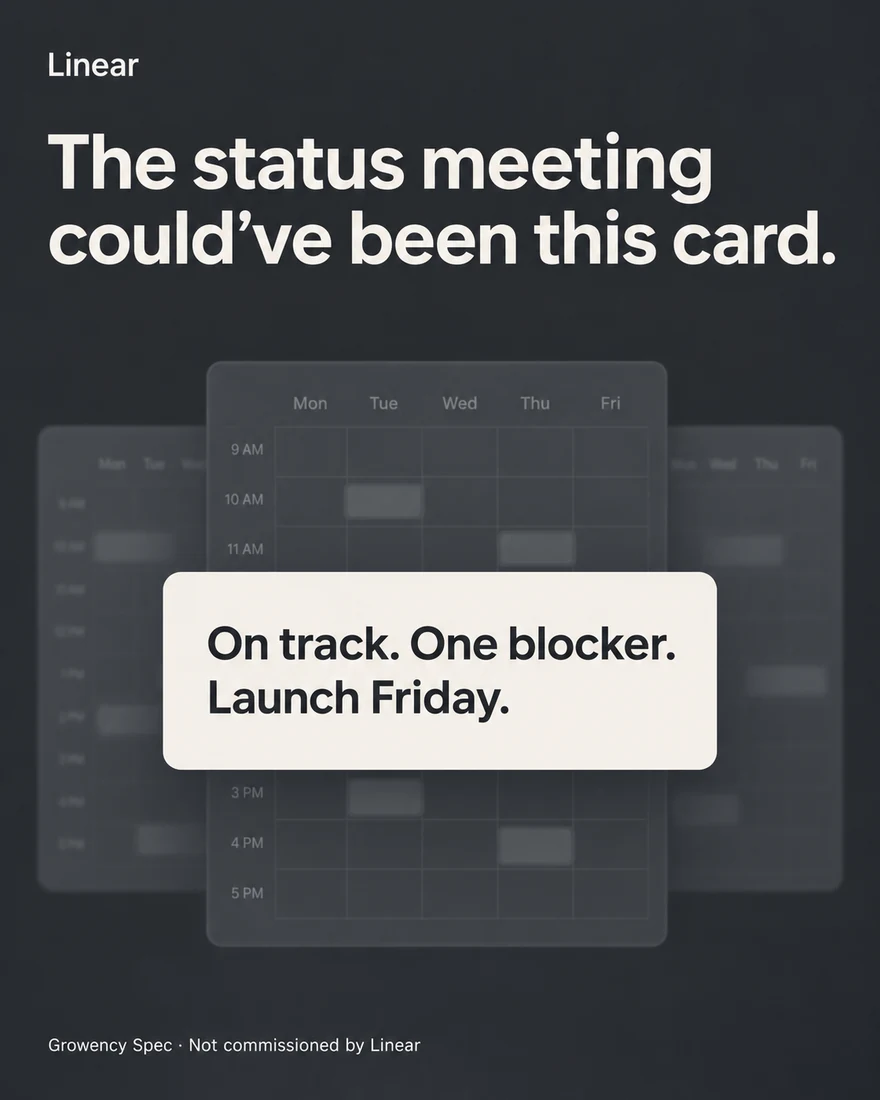
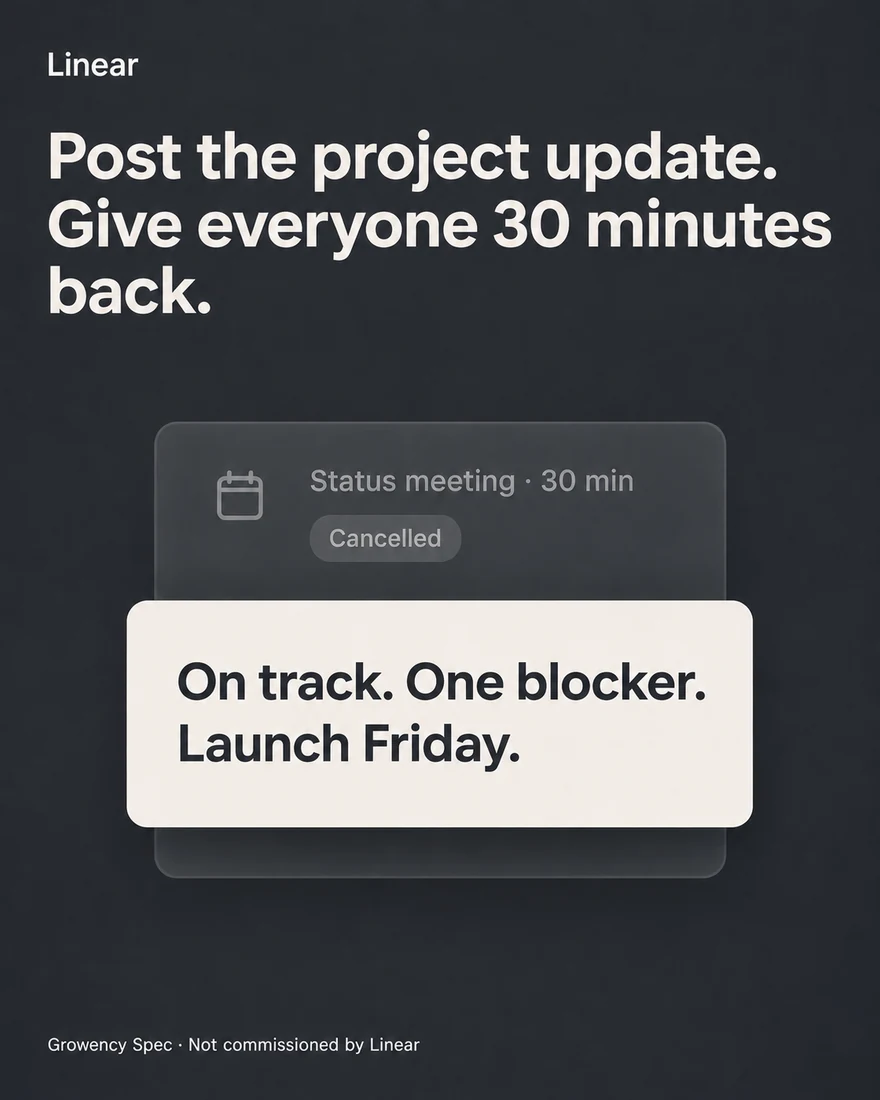
Use selected headlines and varied type in spec ads

diff --git a/index.html b/index.html
@@ -91,7 +91,7 @@
         <ul class="ad-gallery-track" tabindex="0" aria-label="Scroll horizontally to browse the sample ads" data-lenis-prevent-wheel data-lenis-prevent-touch>
           <li class="sample-ad">
             <figure>
-              <div class="sample-ad-image"><img src="assets/spec-ads/posthog.webp" width="880" height="1100" alt="The drop-off has a replay button. An orange funnel line drops to a play button." decoding="async" draggable="false"></div>
+              <div class="sample-ad-image"><img src="assets/spec-ads/posthog.webp?v=2" width="880" height="1100" alt="See what shoppers clicked before they quit. A paused mobile checkout replay shows a banner covering the pay button." decoding="async" draggable="false"></div>
               <figcaption><strong>Session replay</strong><span>Growency Spec · Not commissioned by PostHog</span></figcaption>
             </figure>
           </li>
@@ -103,37 +103,37 @@
           </li>
           <li class="sample-ad">
             <figure>
-              <div class="sample-ad-image"><img src="assets/spec-ads/ooni.webp" width="880" height="1100" alt="The last slice has witnesses. Hands reach for the last slice of pizza." decoding="async" draggable="false"></div>
+              <div class="sample-ad-image"><img src="assets/spec-ads/ooni.webp?v=2" width="880" height="1100" alt="Fire up the pizza oven. Guard the last slice. A hand reaches for a slice beside an outdoor oven." decoding="async" draggable="false"></div>
               <figcaption><strong>Outdoor pizza ovens</strong><span>Growency Spec · Not commissioned by Ooni</span></figcaption>
             </figure>
           </li>
           <li class="sample-ad">
             <figure>
-              <div class="sample-ad-image"><img src="assets/spec-ads/linear.webp" width="880" height="1100" alt="The status meeting could’ve been this card. One short project update sits in front of a crowded calendar." loading="lazy" decoding="async" draggable="false"></div>
+              <div class="sample-ad-image"><img src="assets/spec-ads/linear.webp?v=2" width="880" height="1100" alt="Post the project update. Give everyone 30 minutes back. A short project update sits in front of a cancelled meeting invite." loading="lazy" decoding="async" draggable="false"></div>
               <figcaption><strong>Project updates</strong><span>Growency Spec · Not commissioned by Linear</span></figcaption>
             </figure>
           </li>
           <li class="sample-ad">
             <figure>
-              <div class="sample-ad-image"><img src="assets/spec-ads/allbirds.webp" width="880" height="1100" alt="Give your feet a window seat. Sunlight falls across a grey knit sneaker." loading="lazy" decoding="async" draggable="false"></div>
+              <div class="sample-ad-image"><img src="assets/spec-ads/allbirds.webp?v=2" width="880" height="1100" alt="Breathable sneakers. Your socks can thank us later. Sunlight catches the mesh of a grey sneaker beside an open window." loading="lazy" decoding="async" draggable="false"></div>
               <figcaption><strong>Tree Runner sneakers</strong><span>Growency Spec · Not commissioned by Allbirds</span></figcaption>
             </figure>
           </li>
           <li class="sample-ad">
             <figure>
-              <div class="sample-ad-image"><img src="assets/spec-ads/ikea.webp" width="880" height="1100" alt="Your wardrobe starts with a tape measure. A yellow tape measure spans an empty alcove." loading="lazy" decoding="async" draggable="false"></div>
+              <div class="sample-ad-image"><img src="assets/spec-ads/ikea.webp?v=2" width="880" height="1100" alt="Design a wardrobe around your clothes. Yes, all of them. A modular wardrobe has space for coats, folded clothes and shoes." loading="lazy" decoding="async" draggable="false"></div>
               <figcaption><strong>PAX wardrobe planner</strong><span>Growency Spec · Not commissioned by IKEA</span></figcaption>
             </figure>
           </li>
           <li class="sample-ad">
             <figure>
-              <div class="sample-ad-image"><img src="assets/spec-ads/careem.webp" width="880" height="1100" alt="One less thing to arrange at 4 a.m. A suitcase waits by a front door before dawn." loading="lazy" decoding="async" draggable="false"></div>
+              <div class="sample-ad-image"><img src="assets/spec-ads/careem.webp?v=2" width="880" height="1100" alt="Book the airport ride before the 4 a.m. alarm. A phone beside a suitcase shows a scheduled airport ride." loading="lazy" decoding="async" draggable="false"></div>
               <figcaption><strong>Airport rides</strong><span>Growency Spec · Not commissioned by Careem</span></figcaption>
             </figure>
           </li>
           <li class="sample-ad">
             <figure>
-              <div class="sample-ad-image"><img src="assets/spec-ads/too-good-to-go.webp" width="880" height="1100" alt="The bakery’s closing. The good stuff’s still here. A croissant peeks out of a bag under a bakery shutter." loading="lazy" decoding="async" draggable="false"></div>
+              <div class="sample-ad-image"><img src="assets/spec-ads/too-good-to-go.webp?v=2" width="880" height="1100" alt="The bakery’s closing. Pick up a Surprise Bag. A croissant peeks out of a bag marked Surprise Bag." loading="lazy" decoding="async" draggable="false"></div>
               <figcaption><strong>Surplus food pickup</strong><span>Growency Spec · Not commissioned by Too Good To Go</span></figcaption>
             </figure>
           </li>
